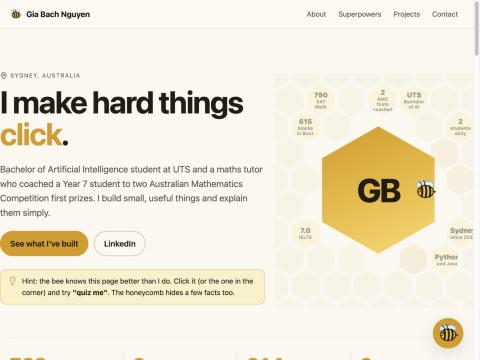
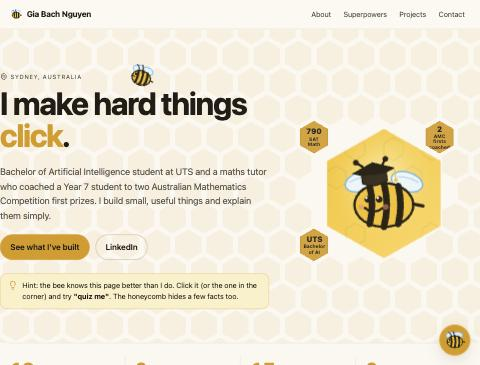
Honeycomb across the whole hero, solid fact cells, visible in dark mode

diff --git a/styles.css b/styles.css
@@ -7,7 +7,7 @@
   --shadow-1: 0 1px 2px rgba(34, 29, 21, .06); --shadow-2: 0 12px 28px rgba(34, 29, 21, .10);
   --r-sm: 8px; --r-md: 14px; --r-lg: 22px; --r-pill: 999px;
   --max: 1080px;
-  --honey: rgba(217, 154, 0, .14);
+  --honey: rgba(217, 154, 0, .14); --cell-base: .09;
   --t-fast: 140ms; --t-base: 220ms; --t-moderate: 360ms; --ease-out: cubic-bezier(.2,.8,.2,1);
 }
 @media (prefers-color-scheme: dark) {
@@ -15,14 +15,14 @@
     --bg: #16130e; --bg-alt: #1d1912; --surface: #221d16; --text: #f1eadb; --muted: #b3a890;
     --accent: #f0b800; --accent-ink: #16130e; --accent-soft: #332a10; --accent-line: #6b5712;
     --line: #322c22; --line-strong: #4a4132;
-    --shadow-1: 0 1px 2px rgba(0,0,0,.4); --shadow-2: 0 12px 28px rgba(0,0,0,.45); --honey: rgba(240, 184, 0, .10);
+    --shadow-1: 0 1px 2px rgba(0,0,0,.4); --shadow-2: 0 12px 28px rgba(0,0,0,.45); --honey: rgba(240, 184, 0, .10); --cell-base: .16;
   }
 }
 :root[data-theme="dark"] {
   --bg: #16130e; --bg-alt: #1d1912; --surface: #221d16; --text: #f1eadb; --muted: #b3a890;
   --accent: #f0b800; --accent-ink: #16130e; --accent-soft: #332a10; --accent-line: #6b5712;
   --line: #322c22; --line-strong: #4a4132;
-  --shadow-1: 0 1px 2px rgba(0,0,0,.4); --shadow-2: 0 12px 28px rgba(0,0,0,.45); --honey: rgba(240, 184, 0, .10);
+  --shadow-1: 0 1px 2px rgba(0,0,0,.4); --shadow-2: 0 12px 28px rgba(0,0,0,.45); --honey: rgba(240, 184, 0, .10); --cell-base: .16;
 }
 
 * { box-sizing: border-box; }
@@ -60,7 +60,7 @@ main { max-width: var(--max); margin: 0 auto; padding: 0 20px; }
 
 /* Hero: asymmetric 7/5 */
 .hero { position: relative; overflow: clip; margin: 0 -20px; padding-left: 20px; padding-right: 20px; display: grid; grid-template-columns: 7fr 5fr; gap: 40px; align-items: center; padding: 88px 0 56px; }
-.flyer { position: absolute; width: 54px; height: 54px; top: 24px; left: -8%; cursor: pointer; animation: fly 16s linear infinite; z-index: 3; }
+.flyer { position: absolute; width: 64px; height: 64px; top: 24px; left: -8%; cursor: pointer; animation: fly 16s linear infinite; z-index: 3; }
 .flyer.follow { animation: none; left: 0; top: 0; will-change: transform; }
 @keyframes fly {
   0%   { transform: translate(0, 0) rotate(0deg); }
@@ -81,13 +81,14 @@ main { max-width: var(--max); margin: 0 auto; padding: 0 20px; }
 .hint .ic { color: var(--accent); margin-top: 2px; }
 
 .hero-art { position: relative; display: grid; place-items: center; min-height: 420px; }
-.comb { position: absolute; inset: -40px -20px; overflow: hidden; }
+.comb { position: absolute; inset: 0; z-index: 0; }
+.hero-text, .hero-art { position: relative; z-index: 1; }
 .cell { position: absolute; width: var(--cw); height: var(--ch); clip-path: polygon(50% 0, 100% 25%, 100% 75%, 50% 100%, 0 75%, 0 25%);
-  background: var(--accent); opacity: calc(.06 + var(--glow, 0) * .6); transform: scale(calc(.92 + var(--glow, 0) * .1));
-  transition: opacity var(--t-fast), transform var(--t-fast); display: grid; place-items: center; text-align: center; }
-.cell.fact { opacity: calc(.55 + var(--glow, 0) * .45); background: var(--accent-soft); }
-.cell.fact span { font-size: .66rem; line-height: 1.15; font-weight: 700; color: var(--text); padding: 0 8px; opacity: calc(.8 + var(--glow, 0) * .2); }
-.cell.fact strong { display: block; font-size: 1rem; color: var(--accent-ink); }
+  background: var(--accent); opacity: calc(var(--cell-base) + var(--glow, 0) * .7); transform: scale(calc(.9 + var(--glow, 0) * .12));
+  transition: opacity var(--t-base), transform var(--t-base); display: grid; place-items: center; text-align: center; }
+.cell.fact { opacity: calc(.92 + var(--glow, 0) * .08); background: var(--accent); transform: scale(calc(.96 + var(--glow, 0) * .1)); box-shadow: inset 0 0 0 3px rgba(43,36,22,.08); }
+.cell.fact span { font-size: .66rem; line-height: 1.15; font-weight: 700; color: var(--accent-ink); padding: 0 8px; }
+.cell.fact strong { display: block; font-size: 1.05rem; color: var(--accent-ink); }
 .avatar { z-index: 2; }
 .avatar { box-shadow: 0 0 0 6px var(--bg); background: #f6c21a; }
 .avatar { position: relative; width: 240px; height: 272px; z-index: 2; clip-path: polygon(50% 0, 100% 25%, 100% 75%, 50% 100%, 0 75%, 0 25%); background: linear-gradient(160deg, var(--accent), #ffd866); display: grid; place-items: center; animation: float 7s ease-in-out infinite; }
@@ -240,7 +241,6 @@ footer { text-align: center; color: var(--muted); font-size: .9rem; padding: 36p
   .projects .feature { grid-column: auto; grid-template-columns: 1fr; }
   .projects .feature .body { padding: 20px; }
   .hero-art { min-height: 300px; }
-  .comb { inset: -10px -20px; }
   .band-bee { top: -40px; right: 16px; width: 64px; height: 64px; }
   .marquee span { font-size: .95rem; padding: 0 18px; }
   .band-inner { flex-direction: column; align-items: flex-start; }

diff --git a/script.js b/script.js
@@ -162,7 +162,11 @@
     comb.style.setProperty('--cw', cw + 'px');
     comb.style.setProperty('--ch', ch + 'px');
     const cols = Math.ceil(W / dx) + 1, rows = Math.ceil(H / dy) + 1;
-    const cx = W / 2, cy = H / 2, hole = small ? 110 : 150;
+    const cr = comb.getBoundingClientRect();
+    const av = document.getElementById('avatar').getBoundingClientRect();
+    const art = document.querySelector('.hero-art').getBoundingClientRect();
+    const cx = av.left + av.width / 2 - cr.left, cy = av.top + av.height / 2 - cr.top, hole = av.width * 0.62;
+    const ax0 = art.left - cr.left, ax1 = art.right - cr.left, ay0 = art.top - cr.top, ay1 = art.bottom - cr.top;
     const candidates = [];
     for (let r = 0; r < rows; r++) {
       for (let c = 0; c < cols; c++) {
@@ -174,7 +178,9 @@
         el.style.left = x + 'px'; el.style.top = y + 'px';
         comb.appendChild(el);
         cells.push({ el, x: x + cw / 2, y: y + ch / 2 });
-        const m = small ? 26 : 12; if (d > hole + 20 && x > m && x + cw < W - m && y > m && y + ch < H - m) candidates.push(cells.length - 1);
+        // facts live only in the portrait's half, fully inside it, clear of the hole
+        const m = small ? 26 : 4;
+        if (d > hole + 2 && x > ax0 + m && x + cw < ax1 - m && y > ay0 + m && y + ch < ay1 - m) candidates.push(cells.length - 1);
       }
     }
     // spread the fact cells out

diff --git a/index.html b/index.html
@@ -60,6 +60,7 @@
 
   <main id="top">
     <section class="hero">
+      <div class="comb" id="comb" aria-hidden="true"></div>
       <svg class="flyer" id="flyer" aria-hidden="true"><use href="#bee"/></svg>
       <div class="hero-text">
         <p class="eyebrow"><svg class="ic" aria-hidden="true"><use href="#i-pin"/></svg>Sydney, Australia</p>
@@ -75,7 +76,6 @@
         </p>
       </div>
       <div class="hero-art" aria-hidden="true">
-        <div class="comb" id="comb"></div>
         <div class="avatar" id="avatar">
           <!-- Swap for <img src="assets/photo.jpg" alt=""> if a real photo is wanted. -->
           <img src="assets/buzz-portrait.svg" alt="">

diff --git a/docs/SUBMISSION_FINAL.md b/docs/SUBMISSION_FINAL.md
@@ -27,7 +27,7 @@ offers quick-reply chips (projects, quiz me, joke, help), and runs a three-quest
 randomised numbers and a score. It runs entirely in the browser: no API calls, no tracking, and it never blocks
 navigation (Escape or the close button dismisses it).
 
-The hero is a honeycomb: a field of hexagon cells generated in JavaScript that glow as the cursor passes, with eight
+The whole hero is a honeycomb: about two hundred hexagon cells generated in JavaScript that glow as the cursor passes, with a few
 cells holding facts about me (SAT Math 790, two AMC first prizes coached, and so on). The bee on the contact band
 wobbles and talks back when you poke it.
 
@@ -53,7 +53,7 @@ had only made with blocks. The project section shows screenshots of the original
 1. docs/screenshot-desktop-hero.jpg: desktop hero with the honeycomb and the cursor bee.
 2. docs/screenshot-desktop-buzz.jpg: Buzz open mid-quiz.
 3. docs/screenshot-desktop-projects.jpg: the Buzz project card with mBlock screenshots.
-4. docs/screenshot-mobile-hero.jpg: phone width, light mode.
+4. docs/screenshot-mobile-hero.jpg: phone width, dark mode.
 5. (take this) Amplify console: the gia-portfolio app with the main branch deployed and the amplifyapp.com URL visible.
 6. (take this) AWS Budgets: the zero-spend budget.
 

diff --git a/docs/SUBMISSION.md b/docs/SUBMISSION.md
@@ -19,7 +19,7 @@ offers quick-reply chips (projects, quiz me, joke, help), and runs a three-quest
 randomised numbers and a score. It runs entirely in the browser: no API calls, no tracking, and it never blocks
 navigation (Escape or the close button dismisses it).
 
-The hero is a honeycomb: a field of hexagon cells generated in JavaScript that glow as the cursor passes, with eight
+The whole hero is a honeycomb: about two hundred hexagon cells generated in JavaScript that glow as the cursor passes, with a few
 cells holding facts about me (SAT Math 790, two AMC first prizes coached, and so on). The bee on the contact band
 wobbles and talks back when you poke it.
 
